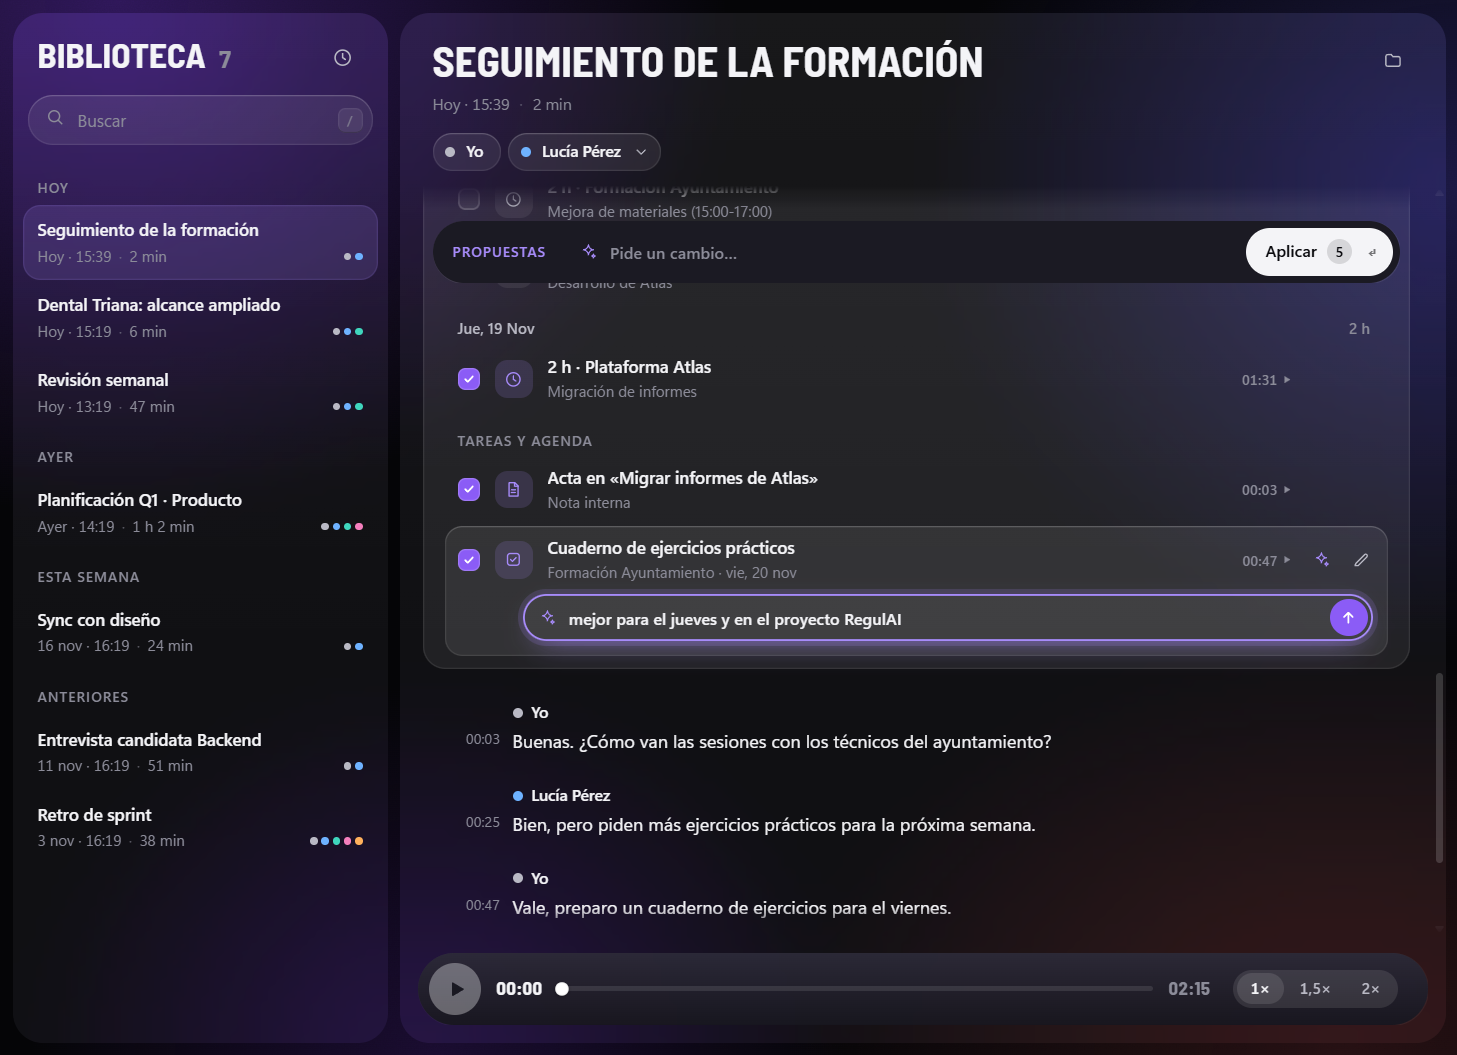
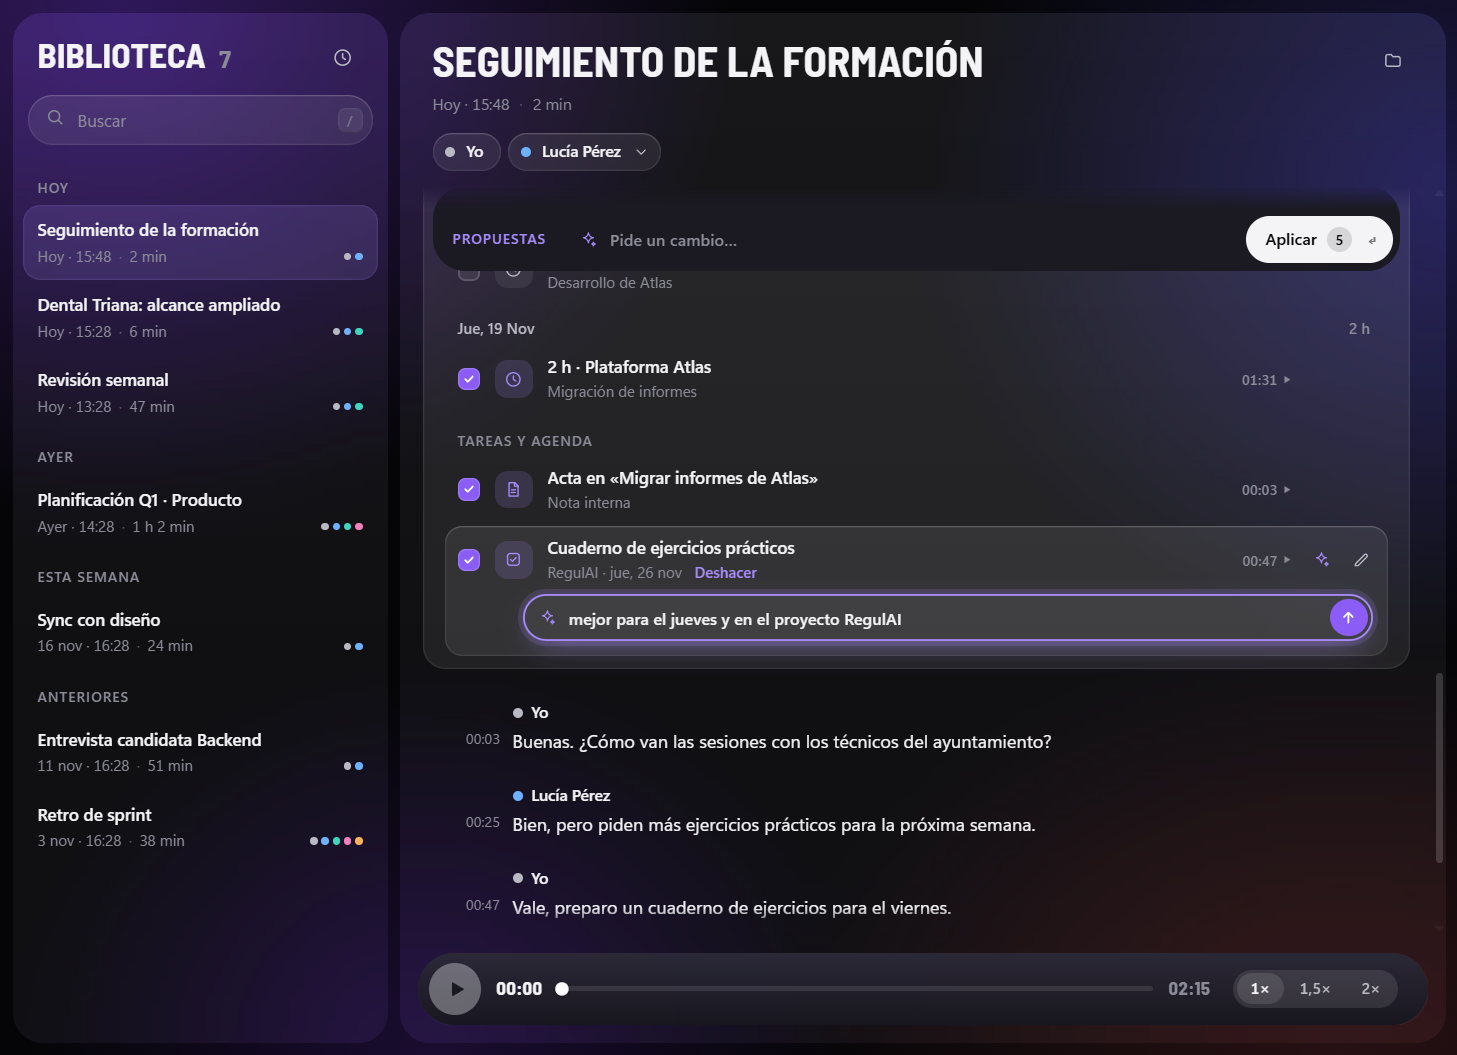
UI: la barra de propuestas fijada tapa la franja de desvanecido (sin filas asomando)

Changed region(s): [[0.278, 0.182, 0.5251, 0.273], [0.7412, 0.182, 0.9574, 0.273], [0.4015, 0.5156, 0.5251, 0.546]]

diff --git a/micnaga/ui/web/secretaria.css b/micnaga/ui/web/secretaria.css
@@ -193,14 +193,20 @@
 @keyframes sec-saved { from { color: var(--accent); } }
 
 /* ---- the bar: message for the whole list · undo · «Aplicar (n)» ------------------------ */
+/* Sticky ends 18px ABOVE the scroller's content edge (= .transcript padding-top), i.e. right at
+   the top of the scrollport, so no row can show between the edge and the bar. The capsule is a
+   ::before starting 18px down: that band is exactly the mask's fade, where rows already vanish. */
 .sec-bar {
-  position: sticky; top: 10px; z-index: 3; display: flex; flex-wrap: wrap; align-items: center; gap: 8px;
-  margin: -8px -10px 2px; padding: 6px 6px 6px 16px;
-  border-radius: 26px; background: light-dark(rgb(251 251 254), rgb(27 26 35)); /* opaque: nested blur is not reliable */
-  -webkit-backdrop-filter: var(--glass-blur); backdrop-filter: var(--glass-blur);
+  position: sticky; top: -18px; z-index: 3; display: flex; flex-wrap: wrap; align-items: center; gap: 8px;
+  margin: -26px -10px 2px; padding: 24px 6px 6px 16px;
+}
+.sec-bar::before {
+  content: ""; position: absolute; inset: 18px 0 0 0; z-index: -1; border-radius: 26px;
+  background: light-dark(rgb(251 251 254), rgb(27 26 35)); /* opaque: nested blur is not reliable */
   box-shadow: inset 0 0 0 1px var(--line), var(--inner-hi), var(--shadow);
 }
-.sec-bar.bare { background: none; box-shadow: none; -webkit-backdrop-filter: none; backdrop-filter: none; }
+.sec-bar.stuck::before { top: 0; }
+.sec-bar.bare::before { content: none; }
 .sec-bar > .sec-badge { flex: none; margin-right: 6px; }
 .sec-planf { flex: 1; min-width: 200px; height: 38px; background: transparent; box-shadow: none; }
 .sec-planf:focus-within { background: light-dark(rgb(255 255 255 / 0.9), rgb(255 255 255 / 0.05)); }

diff --git a/micnaga/ui/web/secretaria.js b/micnaga/ui/web/secretaria.js
@@ -635,6 +635,17 @@
   }
 
   // ------------------------------------------------------------------ the bar: message · undo · apply
+  // While the bar is pinned its capsule also covers the scroller's top fade band (`.stuck`), so
+  // no half-faded row peeks out between the header and the bar.
+  function syncStuck() {
+    const bar = document.querySelector(".sec-bar");
+    const tr = bar && bar.closest(".transcript");
+    if (!tr) return;
+    const stuck = tr.scrollTop > 0 && bar.getBoundingClientRect().top <= tr.getBoundingClientRect().top + 0.5;
+    bar.classList.toggle("stuck", stuck);
+  }
+  document.addEventListener("scroll", syncStuck, { capture: true, passive: true });
+
   function renderBar() {
     const bar = el("div", "sec-bar");
     bar.append(el("span", "sec-badge caps", mic.t("secretaria.proposals")));
